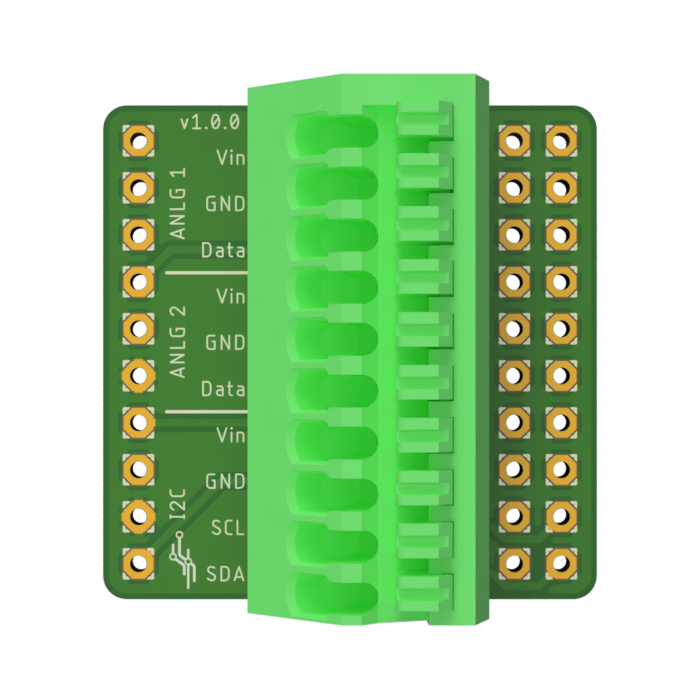
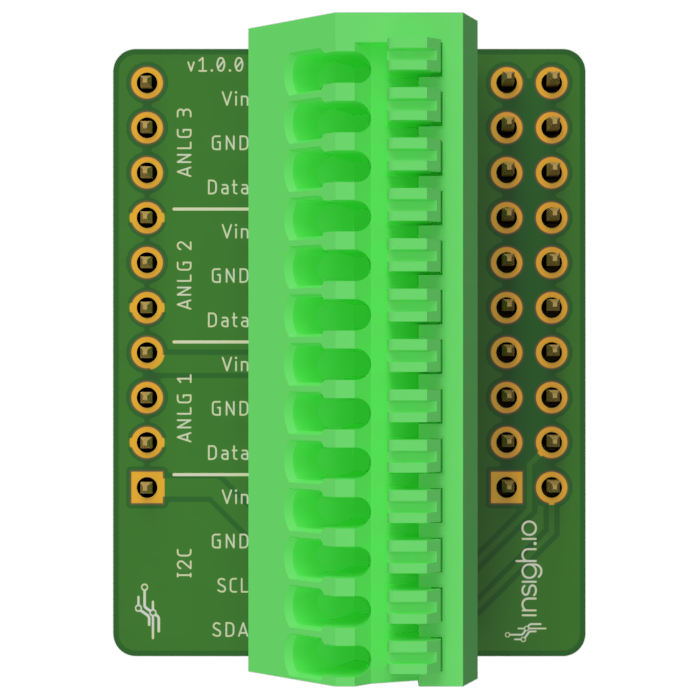
complete info for new shields and shield lists

diff --git a/content/hardware/shields/sensor-board/insighio-air-quality-and-vibrations.md b/content/hardware/shields/sensor-board/insighio-air-quality-and-vibrations.md
@@ -4,3 +4,39 @@ identifier: "hardware@shields@sensor-board@insighio-shield-air-qual-vibr"
 parent: "hardware@shields@sensor-board"
 weight: 230
 ---
+
+![shield air quality vibrations](/images/deviceimages/insighio-shield-air-quality-vibration.png?width=30pc)
+
+### Scope
+Provide support for Air Quality measurement and movement tracking. It is applicable in Mines and/or special cases where Air Quality is monitored via autonomous vehicles, while recording accelerometer, gyroscope and compass readings for environment recording.
+
+### General Information
+
+|                                  |
+| :------------------------------- | :---------------------------------------------------------------- |
+| **Host board**                   | [insigh.io main board](../../../board/latest)       |
+| **Sensor Headers**               | Fixed Terminal Block with push-in connection (no tools required)  |
+|                                  | 1x8-pin (SDI-12 & Pulse Counter) & 1x6-pin (4-20mA)               |
+| **Dimensions (L x W x H)**       | 41.3 x 47 x 16.7 mm                                               |
+| **Weight**                       | 16 g                                                              |
+
+### Example Applications
+
+-   **Special environment Air Quality monitoring (mines, caves, underground tunnels)**
+    -   CO2 level monitoring
+-   **Vehicle monitoring / environment recording**
+    -   Accelerometer, Gyroscope, Compass -> bump detection, slope recording, force metering
+
+### Sensors Support (Hardware & Software)
+
+#### Fixed sensor support
+
+|  Sensor Name                    |  Functionality                                                                   |
+| :-----------------------------  | :--------------------------------------------------------------------------------|
+| **asm330**                      | Automotive 6-axis inertial module: 3D accelerometer and 3D gyroscope             |
+| **scd40**                       | CO2 sensor                                                                       |
+
+
+## Custom designs
+
+The existing boards are highly configurable and expandable so if the existing boards do not fit your need, **[get in contact with us](mailto:info@insigh.io)** and we will tailor a solution for you with your customizations.

diff --git a/content/hardware/shields/_index.en.md b/content/hardware/shields/_index.en.md
@@ -6,8 +6,17 @@ weight: 2
 ---
 
 {{< customtable "table autowidth" >}}
-| | | |
+
+| Sensor Shields  |
 | :-: | :-: | :-: |
-| [![shield adc i2c](/images/deviceimages/insighio-shield-base-adc-i2c.png)]({{< relref "./sensor-board/insighio-shield-base-adc-i2c.md" >}}) | [![shield sdi12 4-20mA pulse counter](/images/deviceimages/insighio-shield-advind.png)]({{< relref "./sensor-board/insighio-shield-advind.md" >}}) | [![shield lora gps](/images/deviceimages/insighio-shield-lora.png)]({{< relref "./radio/insighio-shield-lora.md" >}}) |
-| Basic Sensor Shield | Advanced Industrial Sensor Shield | LoRa/GPS shield |
+| [![shield adc i2c](/images/deviceimages/insighio-shield-base-adc-i2c.png)]({{< relref "./sensor-board/insighio-shield-base-adc-i2c.md" >}}) | [![shield sdi12 4-20mA pulse counter](/images/deviceimages/insighio-shield-advind.png)]({{< relref "./sensor-board/insighio-shield-advind.md" >}}) | [![shield air quality vibrations](/images/deviceimages/insighio-shield-air-quality-vibration.png)]({{< relref "./radio/insighio-shield-lora.md" >}}) |
+| Basic Sensor Shield | Advanced Industrial Sensor Shield | Advanced Industrial Sensor Shield |
+{{< /customtable >}}
+
+{{< customtable "table autowidth" >}}
+
+| Radio Shields  |
+| :-: | 
+| [![shield lora gps](/images/deviceimages/insighio-shield-lora.png)]({{< relref "./radio/insighio-shield-lora.md" >}}) |  |
+| LoRa/GPS shield | 
 {{< /customtable >}}

diff --git a/content/hardware/shields/sensor-board/_index.en.md b/content/hardware/shields/sensor-board/_index.en.md
@@ -5,4 +5,10 @@ parent: "hardware@shields"
 weight: 210
 ---
 
- TODO
+{{< customtable "table autowidth" >}}
+
+| Sensor Shields  |
+| :-: | :-: | :-: |
+| [![shield adc i2c](/images/deviceimages/insighio-shield-base-adc-i2c.png)]({{< relref "../sensor-board/insighio-shield-base-adc-i2c.md" >}}) | [![shield sdi12 4-20mA pulse counter](/images/deviceimages/insighio-shield-advind.png)]({{< relref "../sensor-board/insighio-shield-advind.md" >}}) | [![shield air quality vibrations](/images/deviceimages/insighio-shield-air-quality-vibration.png)]({{< relref "../radio/insighio-shield-lora.md" >}}) |
+| Basic Sensor Shield | Advanced Industrial Sensor Shield | Advanced Industrial Sensor Shield |
+{{< /customtable >}}

diff --git a/content/hardware/shields/radio/_index.en.md b/content/hardware/shields/radio/_index.en.md
@@ -5,4 +5,10 @@ parent: "hardware@shields"
 weight: 220
 ---
 
- TODO
+{{< customtable "table autowidth" >}}
+
+| Radio Shields  |
+| :-: | 
+| [![shield lora gps](/images/deviceimages/insighio-shield-lora.png)]({{< relref "../radio/insighio-shield-lora.md" >}}) |  |
+| LoRa/GPS shield | 
+{{< /customtable >}}

diff --git a/content/hardware/shields/sensor-board/insighio-shield-base-adc-i2c.md b/content/hardware/shields/sensor-board/insighio-shield-base-adc-i2c.md
@@ -7,7 +7,6 @@ weight: 225
 
 ![shield adc i2c](/images/deviceimages/insighio-shield-base-adc-i2c.png?width=30pc)
 
-
 ### Scope
 Provide support to multiple analogue & a single digital (I²C) sensors. It is applicable to various applications like smart agriculture and outdoor temperature/humidity monitoring
 
